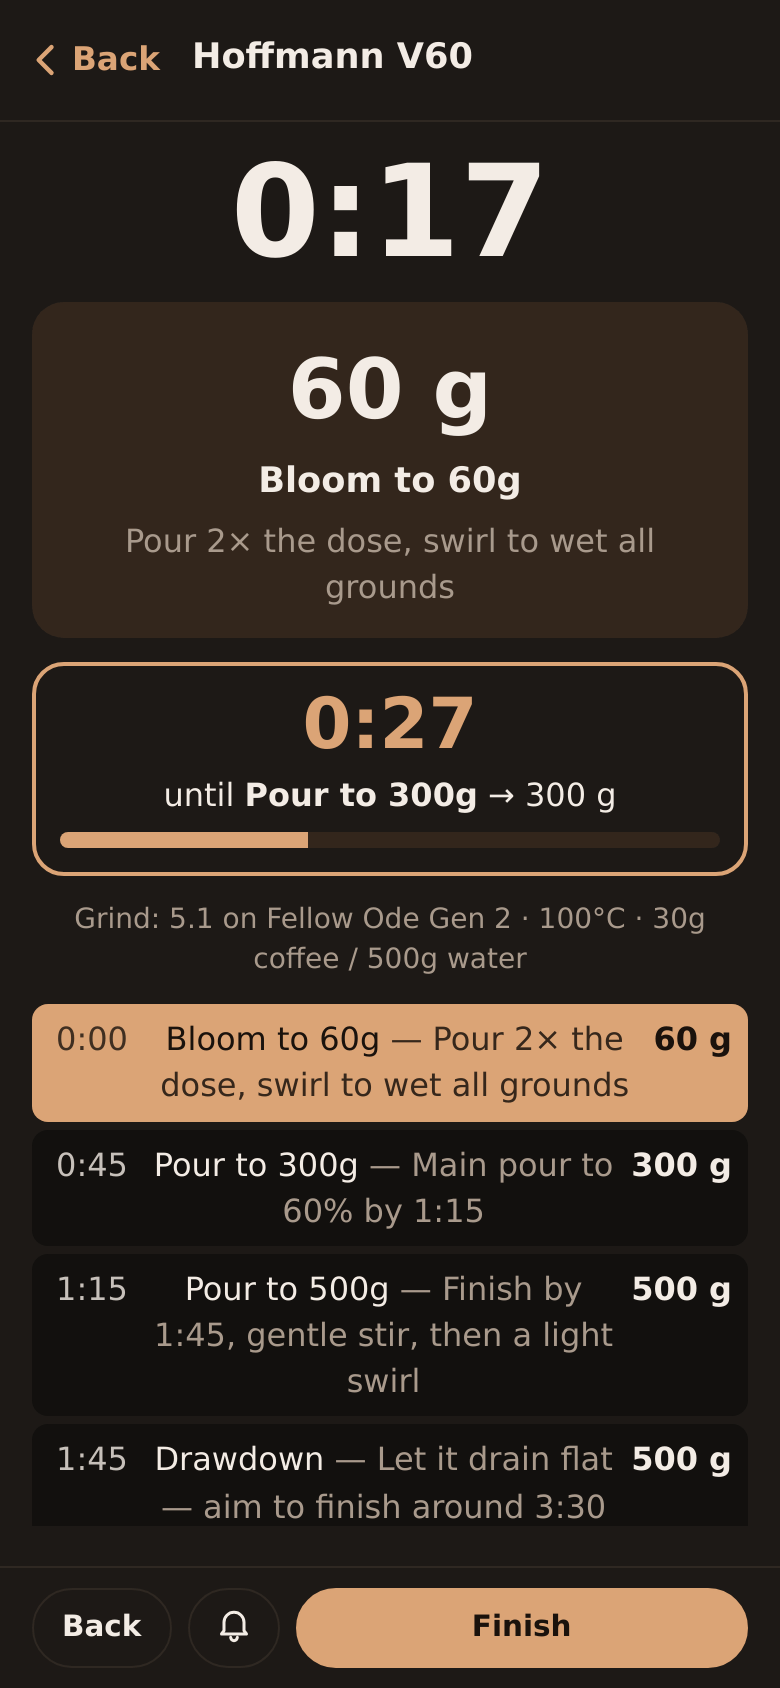
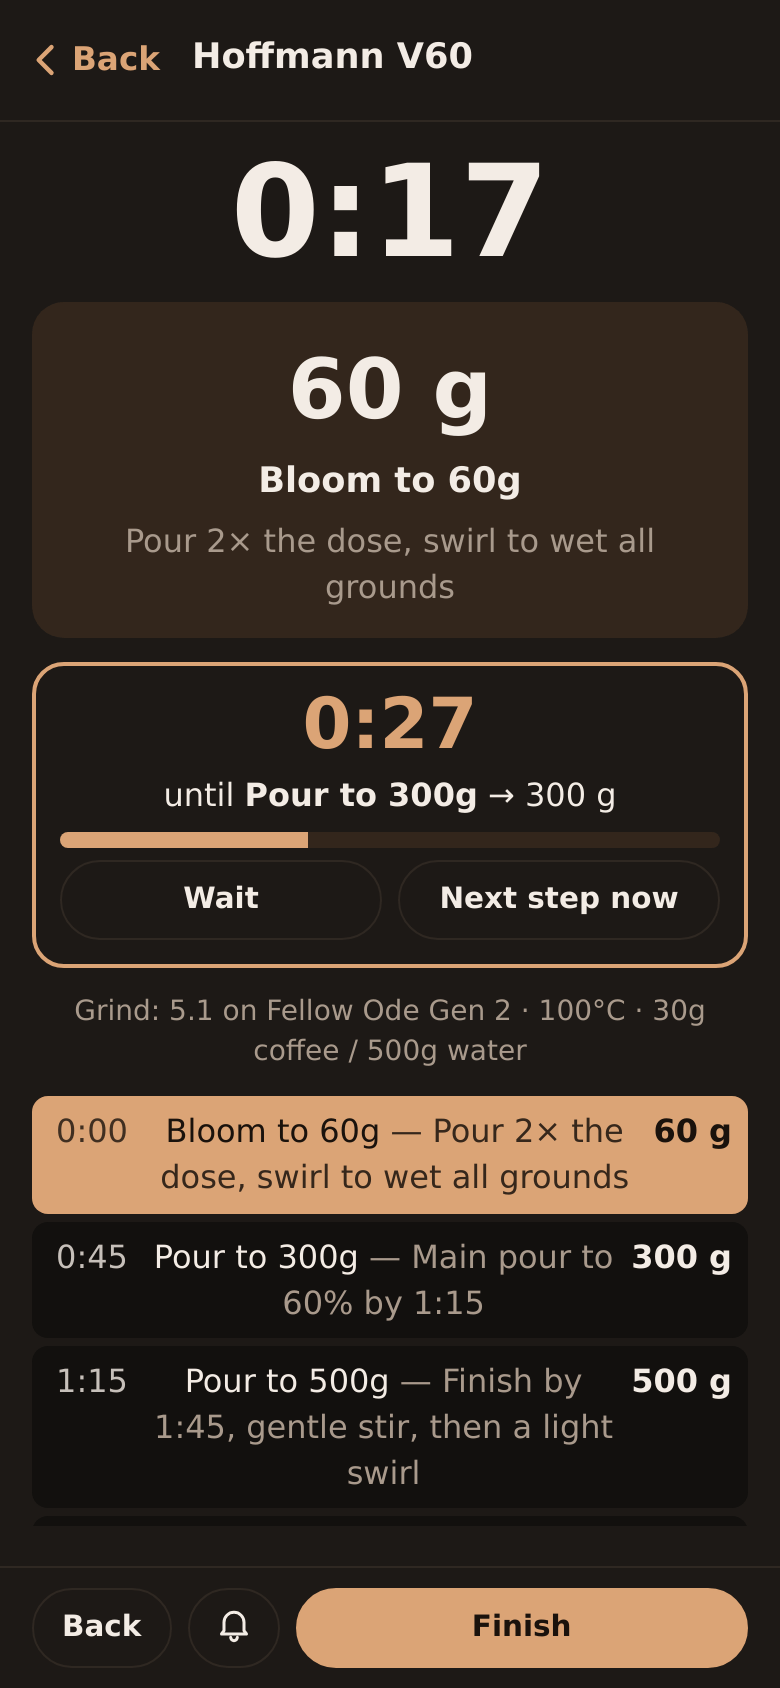
Brewlab 0.6.0: brew timer Next step now and Wait; hourly When you brew
- Brew timer: Next step now starts the next step at once; Wait holds the next
  step past its time until Next step now. Later steps keep their durations and
  move with it; the clock stays wall time; persisted with the active brew.
- Insights → When you brew: 24 hourly columns per weekday, labelled every 3 h.
- Grafana dashboard wordmark and wider tiles (already on main) in the notes.

Claude-Session: https://claude.ai/code/session_0144F8jUJT8yeoo5sCG2Jas8

diff --git a/src/web/brew/ScaleDialog.tsx b/src/web/brew/ScaleDialog.tsx
@@ -1,7 +1,7 @@
 import { useEffect, useMemo, useRef, useState } from "react";
 import { api, type Brew, type Recipe } from "../api";
 import { FullScreen, NumInput, WaterInput, TempInput, useData, Field, Stars, fmtRating, ErrorBox, fmtTime, fmtDate, getPref, setPref, usePref, useTemp } from "../ui";
-import { scaleSteps, applyRatio, ratioOf, fmtRatio, RATIO_TOGGLES, fmtG, type LastEdited, type Step } from "../../shared/brew";
+import { scaleSteps, applyRatio, ratioOf, fmtRatio, RATIO_TOGGLES, fmtG, stepTimes, timerState, nextStepNow, type LastEdited, type Step, type StepShift } from "../../shared/brew";
 import { GrinderSwitcher, grindFor, grindLabel, useGrinders, methodOf } from "../grindui";
 import { doseAdjustedGrind, fmtGrind, toGrindNumber } from "../../shared/grind";
 import { RatioCalculator } from "./RatioCalculator";
@@ -50,6 +50,10 @@ export interface ActiveBrew {
   phase: "timer" | "log";
   startAt: number;
   endAt: number | null;
+  /** "Next step now" moves (older versions: none). */
+  shifts?: StepShift[];
+  /** "Wait": the step held until you tap Next step now. */
+  waitFor?: number | null;
 }
 const ACTIVE_KEY = "activeBrew";
 const STALE_MS = 3 * 3600 * 1000;
@@ -171,6 +175,8 @@ export function ScaleDialog({ plan, onClose, onEditGrinder, resume }: {
   const [phase, setPhase] = useState<"setup" | "timer" | "log">(resume?.phase ?? "setup");
   const [startAt, setStartAt] = useState<number | null>(resume?.startAt ?? null);
   const [endAt, setEndAt] = useState<number | null>(resume?.endAt ?? null);
+  const [shifts, setShifts] = useState<StepShift[]>(resume?.shifts ?? []);
+  const [waitFor, setWaitFor] = useState<number | null>(resume?.waitFor ?? null);
   const [now, setNow] = useState(Date.now());
   const [calc, setCalc] = useState(false);
   const [sound, setSound] = usePref<boolean>("sound", true);
@@ -219,15 +225,25 @@ export function ScaleDialog({ plan, onClose, onEditGrinder, resume }: {
   // Persist the running brew so it can be resumed if iOS closes the app.
   useEffect(() => {
     if ((phase === "timer" || phase === "log") && startAt)
-      setPref(ACTIVE_KEY, { plan, dose, water, grinderId, grind, tempC, inventoryId, waterId, phase: phase as "timer" | "log", startAt, endAt } satisfies ActiveBrew);
-  }, [phase, startAt, endAt, plan, dose, water, grinderId, grind, tempC, inventoryId, waterId]);
+      setPref(ACTIVE_KEY, { plan, dose, water, grinderId, grind, tempC, inventoryId, waterId, phase: phase as "timer" | "log", startAt, endAt, shifts, waitFor } satisfies ActiveBrew);
+  }, [phase, startAt, endAt, shifts, waitFor, plan, dose, water, grinderId, grind, tempC, inventoryId, waterId]);
 
   const elapsed = startAt ? ((endAt ?? now) - startAt) / 1000 : 0;
-  const currentIdx = steps.reduce((acc, s, i) => ((s.atSec ?? 0) <= elapsed ? i : acc), 0);
+  // Step times after any "Next step now" / "Wait" (each step keeps its duration; the clock stays real time).
+  const times = useMemo(() => stepTimes(steps, shifts), [steps, shifts]);
+  const { idx: currentIdx, holding } = timerState(times, elapsed, waitFor);
   const cur = steps[currentIdx];
   const next = steps[currentIdx + 1];
-  const stepStart = cur?.atSec ?? 0;
-  const stepProgress = next ? Math.min(1, Math.max(0, (elapsed - stepStart) / Math.max(1, (next.atSec ?? 0) - stepStart))) : 1;
+  const stepStart = times[currentIdx] ?? 0;
+  const nextAt = times[currentIdx + 1] ?? 0;
+  const stepProgress = next ? Math.min(1, Math.max(0, (elapsed - stepStart) / Math.max(1, nextAt - stepStart))) : 1;
+  const running = phase === "timer" && !!startAt && !endAt;
+  const goNext = () => {
+    const t = Date.now();
+    setNow(t);
+    setShifts(nextStepNow(steps, shifts, currentIdx, startAt ? (t - startAt) / 1000 : 0));
+    setWaitFor(null);
+  };
 
   // Chime when a new step begins.
   const lastIdx = useRef<number | null>(null);
@@ -284,6 +300,8 @@ export function ScaleDialog({ plan, onClose, onEditGrinder, resume }: {
     setStartAt(Date.now());
     setNow(Date.now());
     setEndAt(null);
+    setShifts([]);
+    setWaitFor(null);
     setPhase("timer");
   };
   const finish = () => {
@@ -444,18 +462,37 @@ export function ScaleDialog({ plan, onClose, onEditGrinder, resume }: {
             {cur?.detail && <div className="muted">{cur.detail}</div>}
           </div>
           {next ? (
-            <div className="next-step" data-testid="next-step">
-              <div className="next-count">{fmtTime((next.atSec ?? 0) - elapsed)}</div>
-              <div>until <strong>{next.label}</strong>{next.targetWaterG != null ? ` → ${fmtG(next.targetWaterG)} g` : ""}</div>
-              <div className="progress" role="progressbar" aria-valuemin={0} aria-valuemax={100} aria-valuenow={Math.round(stepProgress * 100)}>
-                <span style={{ width: `${stepProgress * 100}%` }} />
-              </div>
+            <div className={`next-step${holding ? " holding" : ""}`} data-testid="next-step">
+              {holding ? (
+                <>
+                  <div className="next-count" data-testid="wait-count">+{fmtTime(elapsed - nextAt)}</div>
+                  <div>Waiting — tap <strong>Next step now</strong> for <strong>{next.label}</strong>{next.targetWaterG != null ? ` → ${fmtG(next.targetWaterG)} g` : ""}</div>
+                </>
+              ) : (
+                <>
+                  <div className="next-count">{fmtTime(nextAt - elapsed)}</div>
+                  <div>{waitFor != null ? "then wait for " : "until "}<strong>{next.label}</strong>{next.targetWaterG != null ? ` → ${fmtG(next.targetWaterG)} g` : ""}</div>
+                  <div className="progress" role="progressbar" aria-valuemin={0} aria-valuemax={100} aria-valuenow={Math.round(stepProgress * 100)}>
+                    <span style={{ width: `${stepProgress * 100}%` }} />
+                  </div>
+                </>
+              )}
+              {running && (
+                <div className="step-ctl">
+                  {!holding && (
+                    <button type="button" aria-pressed={waitFor != null} className={waitFor != null ? "on" : ""} onClick={() => setWaitFor(waitFor != null ? null : currentIdx + 1)}>
+                      Wait
+                    </button>
+                  )}
+                  <button type="button" className={holding ? "primary" : ""} onClick={goNext}>Next step now</button>
+                </div>
+              )}
             </div>
           ) : (
             <div className="next-step done"><div>Last step — tap <strong>Finish</strong> when it's drained.</div></div>
           )}
           <div className="muted small">Grind: {fmtGrind(grind, grinder) || "—"} on {choice.grinderName ?? "—"}{tempC != null ? ` · ${temp.fmt(tempC)}` : ""} · {dose}g coffee / {water != null ? fmtG(water) : "—"}g {waterLabel.toLowerCase()}{bag ? ` · ${bag.name}` : ""}{waterRec ? ` · ${waterRec.name}` : ""}</div>
-          <StepList steps={steps} active={currentIdx} follow />
+          <StepList steps={steps} active={currentIdx} times={times} follow />
         </div>
       )}
 
@@ -503,7 +540,7 @@ function BellIcon({ off }: { off: boolean }) {
 const round1 = (n: number) => Math.round(n * 10) / 10;
 
 /** `follow`: the list scrolls itself (not the page) to keep the active step in view, with the step before it peeking above. */
-export function StepList({ steps, active, follow }: { steps: Step[]; active?: number; follow?: boolean }) {
+export function StepList({ steps, active, follow, times }: { steps: Step[]; active?: number; follow?: boolean; times?: number[] }) {
   const ref = useRef<HTMLOListElement>(null);
   useEffect(() => {
     const ol = ref.current;
@@ -518,7 +555,7 @@ export function StepList({ steps, active, follow }: { steps: Step[]; active?: nu
     <ol ref={ref} className={follow ? "steps follow" : "steps"} data-testid="steps">
       {steps.map((s, i) => (
         <li key={i} className={active === i ? "active" : active != null && i < active ? "done" : ""}>
-          <span className="at">{fmtTime(s.atSec ?? 0)}</span>
+          <span className="at">{fmtTime(times?.[i] ?? s.atSec ?? 0)}</span>
           <span className="lbl">{s.label}{s.detail ? <span className="muted"> — {s.detail}</span> : null}</span>
           <span className="tgt" data-testid="step-target">{s.targetWaterG != null ? `${fmtG(s.targetWaterG)} g` : ""}</span>
         </li>

diff --git a/src/web/insights/Insights.tsx b/src/web/insights/Insights.tsx
@@ -4,8 +4,8 @@ import { useMemo, useState } from "react";
 import { useData, usePref } from "../ui";
 import { METHOD_LABELS, type Method } from "../../shared/grind";
 import {
-  PERIODS, periodRange, previousRange, inRange, autoUnit, timeline, rankBy, bestRated, weekHours, WEEKDAYS, BANDS,
-  ratingCounts, ratioCounts, RATIO_BINS, BAND_STARTS, cumulative, gramsEvents, spendEvents, streak, kpis, COFFEE_FIELDS, brewBag, brewDate,
+  PERIODS, periodRange, previousRange, inRange, autoUnit, timeline, rankBy, bestRated, weekHours, WEEKDAYS, HOURS,
+  ratingCounts, ratioCounts, RATIO_BINS, cumulative, gramsEvents, spendEvents, streak, kpis, COFFEE_FIELDS, brewBag, brewDate,
   type Period, type Unit, type InsightBag, type CoffeeField, type Ranked,
 } from "../../shared/insights";
 import { ChartCard, ColumnChart, BarList, Heatmap, StatTile, LineChart } from "./charts";
@@ -132,9 +132,9 @@ export function Insights() {
           <ColumnChart data={tl.map((b) => ({ label: b.label, value: b.brews, detail: b.grams ? `${Math.round(b.grams)} g` : undefined }))} unit={["brew", "brews"]} ariaLabel={`Brews per ${unit}`} height={220} />
         </ChartCard>
 
-        <ChartCard testId="chart-when" title="When you brew" sub="By weekday and hour (3-hour blocks)"
-          table={{ head: ["Day", ...BANDS], rows: weekHours(d.inP).map((r, i) => [WEEKDAYS[i], ...r]) }}>
-          {nBrews ? <Heatmap rows={WEEKDAYS} cols={BANDS} colLabels={BAND_STARTS} grid={weekHours(d.inP)} unit={["brew", "brews"]} /> : <p className="muted small">No brews in this period.</p>}
+        <ChartCard testId="chart-when" title="When you brew" sub="By weekday and hour"
+          table={{ head: ["Day", ...HOURS], rows: weekHours(d.inP).map((r, i) => [WEEKDAYS[i], ...r]) }}>
+          {nBrews ? <Heatmap rows={WEEKDAYS} cols={HOURS} labelEvery={3} grid={weekHours(d.inP)} unit={["brew", "brews"]} /> : <p className="muted small">No brews in this period.</p>}
         </ChartCard>
 
         <ChartCard testId="chart-cum-grams" title="Coffee used" sub={`Running total · ${grams(Math.round(cumGrams.at(-1)?.total ?? 0))} in ${PERIODS[p].label.toLowerCase()}`}

diff --git a/src/shared/brew.ts b/src/shared/brew.ts
@@ -65,3 +65,35 @@ export function applyRatio(doseG: number, waterG: number, ratio: number, lastEdi
   }
   return { doseG, waterG: Math.round(doseG * ratio * 10) / 10 };
 }
+
+/* ------------------------------ brew timer: skipping ahead and waiting ------------------------------ */
+
+/**
+ * A change to the schedule made mid-brew: every step from `from` on starts `sec` seconds later
+ * (negative = earlier). Each step keeps its duration; the steps before `from` are left alone.
+ */
+export interface StepShift { from: number; sec: number }
+
+/** When each step starts once the shifts are applied (seconds from Start). */
+export function stepTimes(steps: Step[], shifts: StepShift[] = []): number[] {
+  return steps.map((s, i) => (s.atSec ?? 0) + shifts.reduce((n, sh) => n + (sh.from <= i ? sh.sec : 0), 0));
+}
+
+/**
+ * The step on screen at `elapsed`. `waitFor` = the step being held: it doesn't begin on its own
+ * (`holding` once its time has come), only through `nextStepNow`.
+ */
+export function timerState(times: number[], elapsed: number, waitFor: number | null = null): { idx: number; holding: boolean } {
+  let idx = times.reduce((acc, t, i) => (t <= elapsed ? i : acc), 0);
+  const holding = waitFor != null && waitFor < times.length && times[waitFor] <= elapsed;
+  if (waitFor != null && idx >= waitFor) idx = Math.max(0, waitFor - 1);
+  return { idx, holding };
+}
+
+/** Start the step after `idx` now: it and every step after it move by the same amount (earlier when the bed drained fast, later after a wait). */
+export function nextStepNow(steps: Step[], shifts: StepShift[], idx: number, elapsed: number): StepShift[] {
+  const k = idx + 1;
+  if (k >= steps.length) return shifts;
+  const sec = elapsed - stepTimes(steps, shifts)[k];
+  return sec ? [...shifts, { from: k, sec }] : shifts;
+}

diff --git a/src/web/insights/charts.tsx b/src/web/insights/charts.tsx
@@ -137,7 +137,8 @@ export function BarList({ rows, max, value, note, empty = "Nothing here yet." }:
 }
 
 /** Rows × columns of counts on a one-hue ramp (5 steps; empty cells are the track). */
-export function Heatmap({ rows, cols, colLabels, grid, unit }: { rows: string[]; cols: string[]; colLabels?: string[]; grid: number[][]; unit: [string, string] }) {
+/** `labelEvery`: label every nth column with its start (e.g. the hour), spanning n columns, so narrow columns stay readable. */
+export function Heatmap({ rows, cols, labelEvery = 1, grid, unit }: { rows: string[]; cols: string[]; labelEvery?: number; grid: number[][]; unit: [string, string] }) {
   const [hover, setHover] = useState<string | null>(null);
   const max = Math.max(0, ...grid.flat());
   const step = (v: number) => (v <= 0 || !max ? 0 : Math.max(1, Math.ceil((v / max) * 5)));
@@ -147,7 +148,11 @@ export function Heatmap({ rows, cols, colLabels, grid, unit }: { rows: string[];
     <div className="heatmap" style={{ gridTemplateColumns: `auto repeat(${cols.length}, minmax(0, 1fr))`, gridTemplateRows: `auto repeat(${rows.length}, var(--hm-cell)) auto` }}
       role="group" aria-label="Brews by weekday and time of day">
       <span />
-      {cols.map((c, j) => <span key={c} className="hm-col" aria-hidden="true">{colLabels?.[j] ?? c}</span>)}
+      {cols.map((c, j) => (j % labelEvery ? null : (
+        <span key={c} className={`hm-col${labelEvery > 1 ? " start" : ""}`} aria-hidden="true" style={{ gridColumn: `${j + 2} / span ${Math.min(labelEvery, cols.length - j)}`, gridRow: 1 }}>
+          {labelEvery > 1 ? c.split("–")[0] : c}
+        </span>
+      )))}
       {rows.map((r, i) => (
         <Fragment key={r}>
           <span className="hm-rowlabel">{r}</span>

diff --git a/src/web/styles.css b/src/web/styles.css
@@ -391,6 +391,10 @@ ul.link-list .link-ico { display: inline-grid; place-items: center; color: var(-
 .dialin h3 { font-size: .9rem; margin-bottom: 4px; }
 .next-step { background: var(--surface); border: 2px solid var(--accent); border-radius: var(--radius); padding: 12px; display: flex; flex-direction: column; gap: 6px; }
 .next-step.done { border-style: dashed; }
+.next-step.holding { border-style: dashed; }
+.step-ctl { display: flex; gap: 8px; justify-content: center; flex-wrap: wrap; }
+.step-ctl button { flex: 1 1 0; min-width: 0; }
+.step-ctl button.on { background: var(--accent-soft); border-color: var(--accent); }
 .next-count { font-size: 2.2rem; font-weight: 800; font-variant-numeric: tabular-nums; line-height: 1; color: var(--accent); }
 .progress { height: 8px; border-radius: 999px; background: var(--accent-soft); overflow: hidden; }
 .progress span { display: block; height: 100%; background: var(--accent); transition: width .2s linear; }
@@ -615,6 +619,10 @@ code.cmd { display: block; margin: 4px 0 6px; overflow-wrap: normal; word-break:
 .hm-cell.s5 { background: var(--chart-1); }
 .hm-cell.hot { box-shadow: 0 0 0 2px var(--text); }
 .hm-tip { left: 50%; top: 0; }
+.hm-col.start { text-align: left; }
+/* 24 hourly columns: tighter gaps and corners so the cells keep some width on a phone. */
+.heatmap:has(> .hm-col.start) { gap: 3px 2px; }
+.heatmap:has(> .hm-col.start) .hm-cell { border-radius: 2px; }
 .hm-legend { display: flex; align-items: center; gap: 4px; margin-top: 6px; }
 .hm-legend .hm-cell { width: 18px; height: 12px; }
 .table-wrap { overflow-x: auto; }

diff --git a/src/shared/insights.ts b/src/shared/insights.ts
@@ -149,17 +149,15 @@ export function bestRated<T>(items: T[], key: (x: T) => string | null | undefine
     .slice(0, limit);
 }
 
-/** When you brew: 7 weekdays (Mon first) × 8 three-hour bands. */
-export const BANDS = ["0–3", "3–6", "6–9", "9–12", "12–15", "15–18", "18–21", "21–24"];
-/** Column labels for the grid: the hour each 3-hour block starts. */
-export const BAND_STARTS = ["0", "3", "6", "9", "12", "15", "18", "21"];
+/** When you brew: 7 weekdays (Mon first) × 24 hours. */
+export const HOURS = Array.from({ length: 24 }, (_, h) => `${h}–${h + 1}`);
 export const WEEKDAYS = ["Mon", "Tue", "Wed", "Thu", "Fri", "Sat", "Sun"];
 export function weekHours(brews: InsightBrew[]): number[][] {
-  const grid = WEEKDAYS.map(() => BANDS.map(() => 0));
+  const grid = WEEKDAYS.map(() => HOURS.map(() => 0));
   for (const b of brews) {
     if (/^\d{4}-\d{2}-\d{2}$/.test(b.brewedAt)) continue; // a date without a time can't be placed
     const d = new Date(b.brewedAt);
-    grid[(d.getDay() + 6) % 7][Math.floor(d.getHours() / 3)]++;
+    grid[(d.getDay() + 6) % 7][d.getHours()]++;
   }
   return grid;
 }

diff --git a/CHANGELOG.md b/CHANGELOG.md
@@ -1,8 +1,10 @@
 # Changelog
 
-## Unreleased
+## 0.6.0
 
-- **Grafana dashboard:** the Brewlab wordmark across the top, in Grafana 11 and 12. It follows Grafana's theme (light text on the dark theme, dark text on the light one). Your browser loads it from the repo via jsDelivr; without internet the row stays empty.
+- **Brew timer: Next step now and Wait.** *Next step now* starts the next step at once (the bed drained early); *Wait* holds the next step past its time until you tap *Next step now* (the bed is still wet), showing how long you've waited. Either way the steps after it keep their durations and move with it, the step list shows the new times, and the clock keeps real time, so the logged total is what the brew took. Survives the app being closed mid-brew.
+- **Insights → When you brew** is hourly: 24 one-hour columns per weekday (was 3-hour blocks), labelled every three hours.
+- **Grafana dashboard:** the Brewlab wordmark across the top, in Grafana 11 and 12. It follows Grafana's theme (light text on the dark theme, dark text on the light one). Your browser loads it from the repo via jsDelivr; without internet the row stays empty. The *At a glance* tiles are wider, six to a row.
 
 ## 0.5.0
 

diff --git a/CLAUDE.md b/CLAUDE.md
@@ -184,6 +184,10 @@ SQLite at `/data/brewlab.db`, uploads at `/data/uploads`, port 7642.
 - **Title-bar actions** are rendered by App.tsx from the route (`headerActions()`), never
   registered by pages. "+" buttons `fireAction("new-recipe" | "add-bag" | "log-brew" | "add-gear")`;
   pages handle them with `useAction(...)`. Tests find buttons by aria-label.
+- **Brew timer steps move, the clock doesn't:** step start times are `stepTimes(steps, shifts)` (`src/shared/brew.ts`). *Next
+  step now* (`nextStepNow`) adds a shift from the next step on, so later steps keep their durations; *Wait* (`waitFor`)
+  holds that step past its time (`timerState` → `holding`) until Next step now. The clock is always wall time; shifts
+  and waitFor persist with the active brew.
 - **Brew timer:** the dialog body is `pinned` (FullScreen `bodyClassName`): clock, current and next
   step stay on screen and only the step list scrolls, following the active step (`StepList follow`).
 - **Dialogs** render via a portal to `<body>` (`FullScreen`): iOS WebKit confines fixed overlays
